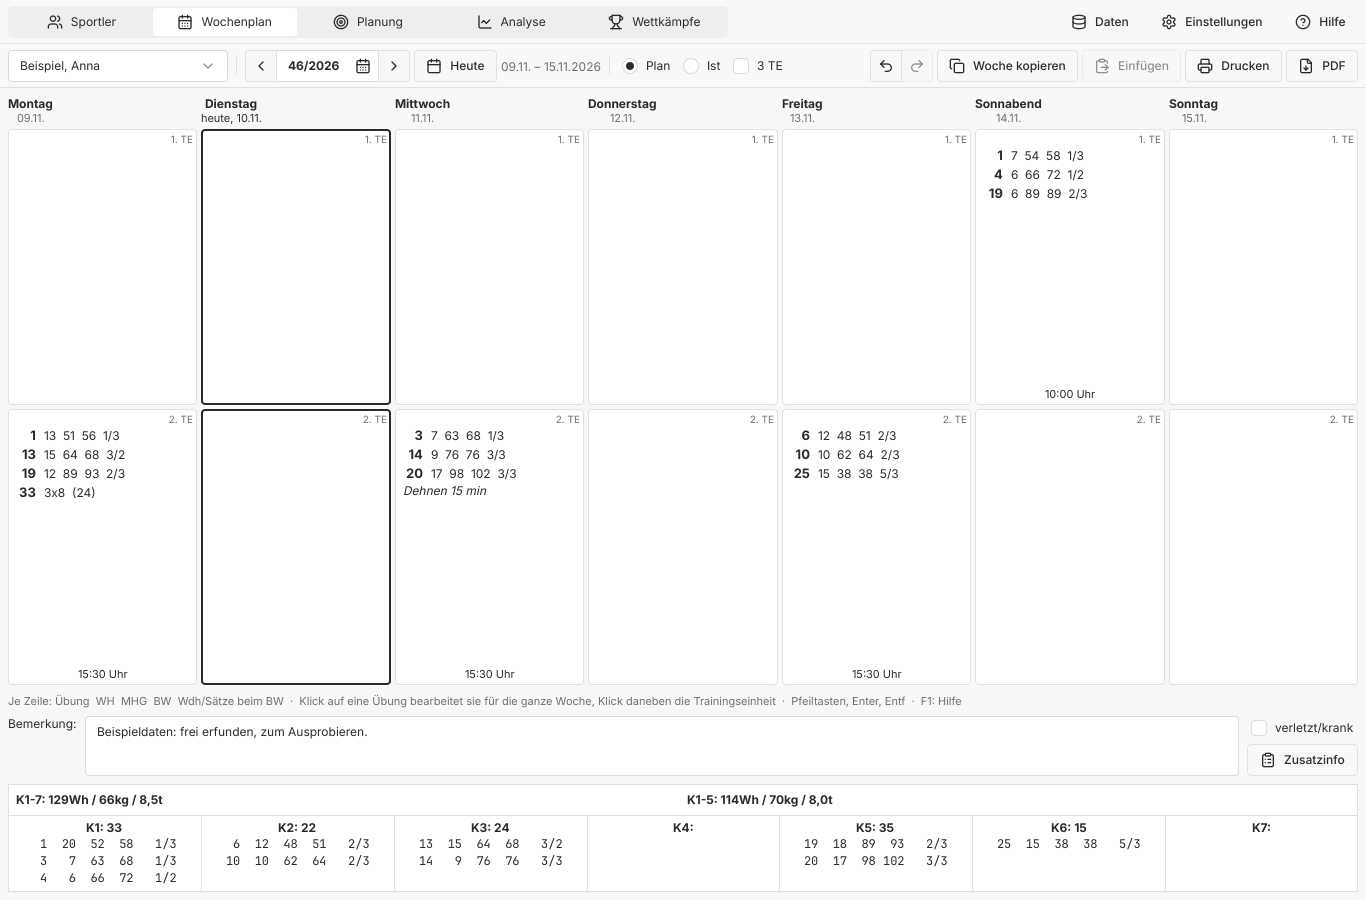
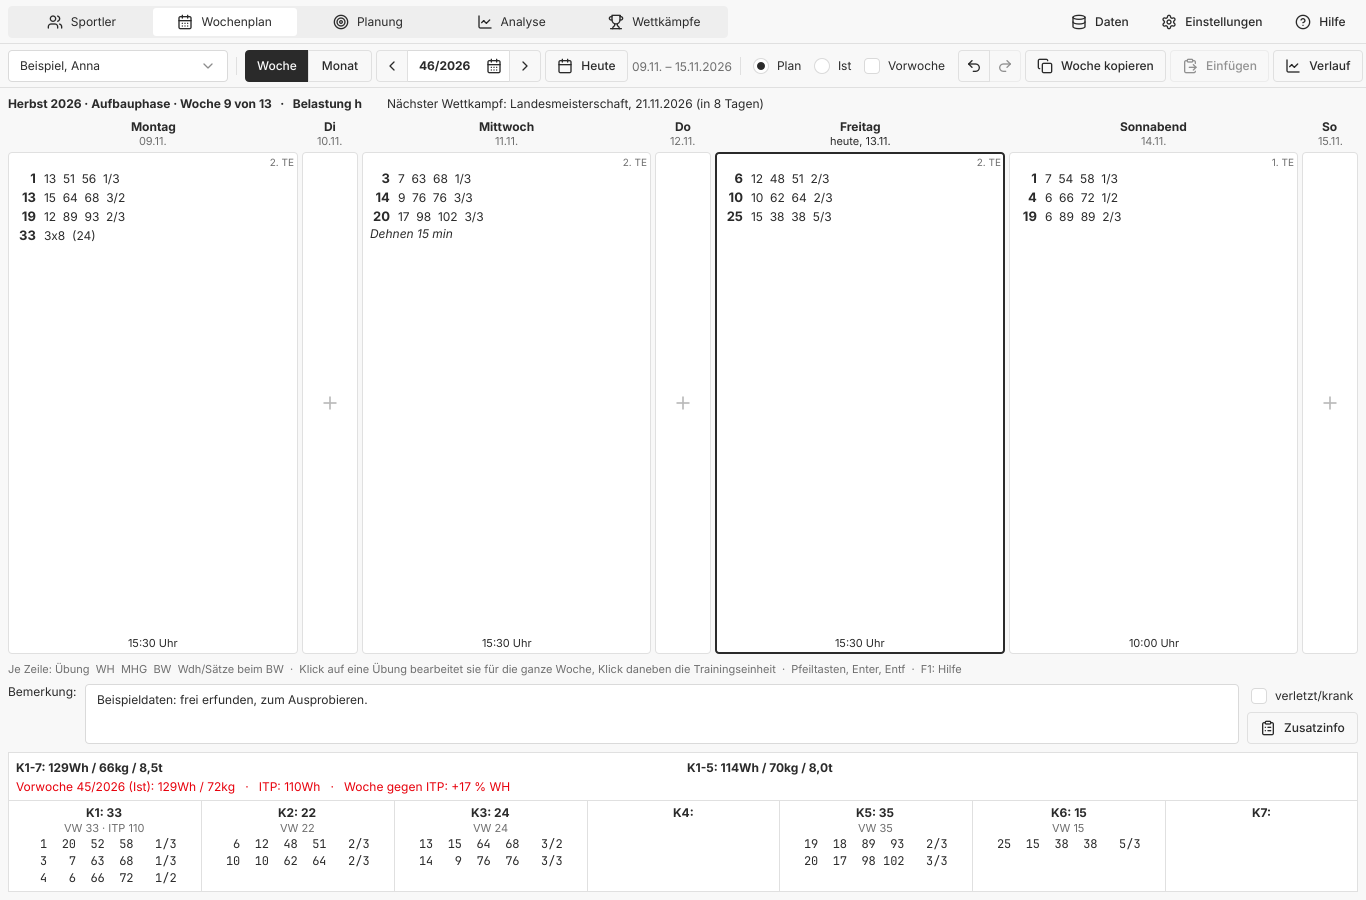
Show the new interface in README and website
New screenshots of the week, the session panel beside it, the month,
the load chart, the ITP, Analyse and Wettkämpfe, all with invented
data: the demo athletes with a MAZ whose ITP is the RTK 2019's U17
sample plan scaled down. take_screenshots.qml and schemes.py take them
again. The README's feature list and the website describe the session
panel, the month view, the load chart and the youth rules.

diff --git a/pages/index.html b/pages/index.html
@@ -51,17 +51,17 @@
       <div>
         <svg class="icon" viewBox="0 0 24 24" fill="none" stroke="currentColor" stroke-width="2" stroke-linecap="round" stroke-linejoin="round" aria-hidden="true"><path d="M8 2v4" /> <path d="M16 2v4" /> <rect width="18" height="18" x="3" y="4" rx="2" /> <path d="M3 10h18" /> <path d="M8 14h.01" /> <path d="M12 14h.01" /> <path d="M16 14h.01" /> <path d="M8 18h.01" /> <path d="M12 18h.01" /> <path d="M16 18h.01" /></svg>
         <h3>Wochenplan</h3>
-        <p>Sieben Tage mit bis zu drei Einheiten, Plan und Ist getrennt, Bemerkung und „verletzt/krank“.</p>
+        <p>So viele Einheiten am Tag, wie Sie trainieren, Plan und Ist getrennt. Darüber Phase, Belastung und nächster Wettkampf, auf Wunsch die Vorwoche.</p>
       </div>
       <div>
         <svg class="icon" viewBox="0 0 24 24" fill="none" stroke="currentColor" stroke-width="2" stroke-linecap="round" stroke-linejoin="round" aria-hidden="true"><path d="M10 8h.01" /> <path d="M12 12h.01" /> <path d="M14 8h.01" /> <path d="M16 12h.01" /> <path d="M18 8h.01" /> <path d="M6 8h.01" /> <path d="M7 16h10" /> <path d="M8 12h.01" /> <rect width="20" height="16" x="2" y="4" rx="2" /></svg>
         <h3>Schnelle Erfassung</h3>
-        <p>Übungsnummer tippen, Gewicht, Wiederholungen und Sätze eintragen, mit Tab von Feld zu Feld.</p>
+        <p>Das nächste Gewicht wird vorgeschlagen, frühere Zeilen angeboten, mit den Pfeiltasten wird gezählt – neben der Woche, nicht über ihr.</p>
       </div>
       <div>
         <svg class="icon" viewBox="0 0 24 24" fill="none" stroke="currentColor" stroke-width="2" stroke-linecap="round" stroke-linejoin="round" aria-hidden="true"><rect width="16" height="20" x="4" y="2" rx="2" /> <line x1="8" x2="16" y1="6" y2="6" /> <line x1="16" x2="16" y1="14" y2="18" /> <path d="M16 10h.01" /> <path d="M12 10h.01" /> <path d="M8 10h.01" /> <path d="M12 14h.01" /> <path d="M8 14h.01" /> <path d="M12 18h.01" /> <path d="M8 18h.01" /></svg>
         <h3>Kennziffern automatisch</h3>
-        <p>WH, MHG, BW und Tonnage je Übung, Einheit und Woche, dazu die Komplexe K1 bis K7.</p>
+        <p>WH, MHG, BW und Tonnage je Übung, Einheit und Woche, die Komplexe K1 bis K7 – neben Vorwoche und ITP.</p>
       </div>
       <div>
         <svg class="icon" viewBox="0 0 24 24" fill="none" stroke="currentColor" stroke-width="2" stroke-linecap="round" stroke-linejoin="round" aria-hidden="true"><path d="M6 18H4a2 2 0 0 1-2-2v-5a2 2 0 0 1 2-2h16a2 2 0 0 1 2 2v5a2 2 0 0 1-2 2h-2" /> <path d="M6 9V3a1 1 0 0 1 1-1h10a1 1 0 0 1 1 1v6" /> <rect x="6" y="14" width="12" height="8" rx="1" /></svg>
@@ -81,36 +81,75 @@
       <div>
         <svg class="icon" viewBox="0 0 24 24" fill="none" stroke="currentColor" stroke-width="2" stroke-linecap="round" stroke-linejoin="round" aria-hidden="true"><circle cx="12" cy="12" r="10" /> <circle cx="12" cy="12" r="6" /> <circle cx="12" cy="12" r="2" /></svg>
         <h3>Langfristige Planung</h3>
-        <p>Makrozyklen mit Phasen und Zielleistungen, Rahmenorientierung und individueller Trainingsplan.</p>
+        <p>Makrozyklen mit Phasen und Zielleistungen, Rahmenorientierung und individueller Trainingsplan mit hohen, mittleren und gesenkten Wochen.</p>
       </div>
       <div>
         <svg class="icon" viewBox="0 0 24 24" fill="none" stroke="currentColor" stroke-width="2" stroke-linecap="round" stroke-linejoin="round" aria-hidden="true"><path d="M6 9H4.5a2.5 2.5 0 0 1 0-5H6" /> <path d="M18 9h1.5a2.5 2.5 0 0 0 0-5H18" /> <path d="M4 22h16" /> <path d="M10 14.66V17c0 .55-.47.98-.97 1.21C7.85 18.75 7 20.24 7 22" /> <path d="M14 14.66V17c0 .55.47.98.97 1.21C16.15 18.75 17 20.24 17 22" /> <path d="M18 2H6v7a6 6 0 0 0 12 0V2Z" /></svg>
         <h3>Wettkämpfe</h3>
-        <p>Ergebnisse mit allen Versuchen, Zweikampf und Entwicklung über die Jahre.</p>
+        <p>Ergebnisse mit allen Versuchen, Zweikampf und Entwicklung über die Jahre. Für die Jugend die Wettkämpfe und Normen der DGJ.</p>
       </div>
       <div>
         <svg class="icon" viewBox="0 0 24 24" fill="none" stroke="currentColor" stroke-width="2" stroke-linecap="round" stroke-linejoin="round" aria-hidden="true"><path d="M3 3v16a2 2 0 0 0 2 2h16" /> <path d="m19 9-5 5-4-4-3 3" /></svg>
         <h3>Analysen</h3>
         <p>Abschnitts- und Gruppenanalyse, Trends und Grafiken – auf Papier, als PDF oder für die Tabellenkalkulation.</p>
       </div>
+      <div>
+        <svg class="icon" viewBox="0 0 24 24" fill="none" stroke="currentColor" stroke-width="2" stroke-linecap="round" stroke-linejoin="round" aria-hidden="true"><rect width="18" height="18" x="3" y="4" rx="2" /> <path d="M16 2v4" /> <path d="M3 10h18" /> <path d="M8 2v4" /> <path d="M17 14h-6" /> <path d="M13 18H7" /> <path d="M7 14h.01" /> <path d="M17 18h.01" /></svg>
+        <h3>Monatsübersicht</h3>
+        <p>Der Monat statt des Wandkalenders: Belastung und Umfang jeder Woche, Einheiten, Wettkampftermine – für einen oder alle Sportler.</p>
+      </div>
+      <div>
+        <svg class="icon" viewBox="0 0 24 24" fill="none" stroke="currentColor" stroke-width="2" stroke-linecap="round" stroke-linejoin="round" aria-hidden="true"><path d="M22 12h-2.48a2 2 0 0 0-1.93 1.46l-2.35 8.36a.25.25 0 0 1-.48 0L9.24 2.18a.25.25 0 0 0-.48 0l-2.35 8.36A2 2 0 0 1 4.49 12H2" /></svg>
+        <h3>Belastungsverlauf</h3>
+        <p>Gewicht und Umfang über den Makrozyklus gegen das ITP, mit Ideallinie – der Sägezahn aus gehobenen und gesenkten Wochen.</p>
+      </div>
+      <div>
+        <svg class="icon" viewBox="0 0 24 24" fill="none" stroke="currentColor" stroke-width="2" stroke-linecap="round" stroke-linejoin="round" aria-hidden="true"><path d="m15.477 12.89 1.515 8.526a.5.5 0 0 1-.81.47l-3.58-2.687a1 1 0 0 0-1.197 0l-3.586 2.686a.5.5 0 0 1-.81-.469l1.514-8.526" /> <circle cx="12" cy="8" r="6" /></svg>
+        <h3>Nachwuchs</h3>
+        <p>Die Wettkämpfe der DGJ zur Auswahl, ein Hinweis bei zwei Wettkämpfen in einer Woche, die Norm der DM Jugend im Blick.</p>
+      </div>
     </div>
 
     <div class="split">
       <div>
         <h3>Eine Einheit in Sekunden erfasst</h3>
-        <p>Jede Übung mit ihren Laststufen: Gewicht oben, darunter Wiederholungen und Sätze.
-          Die Kennziffern rechnen sofort mit, in Klammern für die ganze Woche.</p>
+        <p>Die Einheit öffnet neben der Woche, die im Blick bleibt. Jede Übung mit ihren Laststufen:
+          das nächste Gewicht steht schon grau da, frühere Zeilen werden angeboten, darunter Vorwoche
+          und ITP. Gespeichert wird beim Wechsel, rückgängig mit Strg+Z.</p>
       </div>
       <img src="session.png" width="1366" height="900" loading="lazy"
-           alt="Erfassung einer Trainingseinheit mit drei Übungen und ihren Laststufen">
+           alt="Wochenplan mit der Trainingseinheit im Bereich daneben: Übungen mit Laststufen, ein vorgeschlagenes Gewicht und frühere Zeilen zur Auswahl">
+    </div>
+
+    <div class="split">
+      <div>
+        <h3>Der Monat auf einen Blick</h3>
+        <p>Wochen mit ihrer Belastung und dem geplanten und erledigten Umfang, die Phasen des
+          Makrozyklus, offene Einheiten in Rot. Wettkämpfe per Doppelklick eintragen, die nächsten
+          Termine stehen daneben – auch für alle Sportler, zum Ausdrucken.</p>
+      </div>
+      <img src="month.png" width="1366" height="900" loading="lazy"
+           alt="Monatsübersicht November 2026 mit Wochen, Belastung h, m und g, Einheiten und einem Wettkampf, rechts die Termine">
+    </div>
+
+    <div class="split">
+      <div>
+        <h3>Der Belastungsverlauf</h3>
+        <p>Bestwert und mittleres Hantelgewicht einer Übung je Woche: Ziel aus dem ITP, erreicht,
+          geplant, dazu eine Ideallinie zum Ziel. Darunter der Umfang in den Farben der Belastung –
+          gesenkte Wochen sind schattiert.</p>
+      </div>
+      <img src="load.png" width="1366" height="900" loading="lazy"
+           alt="Belastungsverlauf: Bestwert und mittleres Hantelgewicht über 13 Wochen gegen das ITP, darunter Wiederholungen je Woche">
     </div>
 
     <div class="split">
       <div>
         <h3>Vom Makrozyklus bis zur Woche</h3>
-        <p>Die Rahmenorientierung legt Umfang und Intensität in Prozent fest, der individuelle
-          Trainingsplan rechnet sie mit den Zielleistungen in Kilogramm um. Im Wochenplan stehen
-          die Vorgaben dann neben den geplanten Laststufen.</p>
+        <p>Die Rahmenorientierung des Makrozyklus legt Umfang und Intensität in Prozent fest, der
+          individuelle Trainingsplan rechnet sie mit den Zielleistungen in Kilogramm um, mit hohen,
+          mittleren und gesenkten Wochen. Im Wochenplan stehen die Vorgaben dann neben den
+          geplanten Laststufen.</p>
       </div>
       <img src="planning.png" width="1366" height="900" loading="lazy"
            alt="Individueller Trainingsplan: Wochen und Übungen mit WH, MHG und BW">

diff --git a/docs/screenshots/take_screenshots.qml b/docs/screenshots/take_screenshots.qml
@@ -1,0 +1,117 @@
+// The screenshots in docs/screenshots, with invented data only: the demo
+// athletes, a MAZ "Herbst 2026" with an ITP scaled from the RTK 2019's U17
+// sample plan, earlier weeks done and two competitions to come. Run from
+// the repository with the program built:
+//   QT_QPA_PLATFORM=offscreen build/tst_qml -input docs/screenshots/take_screenshots.qml
+// then python3 docs/screenshots/schemes.py for week-schemes.png. print.png
+// is the printed week plan, saved by hand.
+import QtQuick
+import QtTest
+import Trainingsplaner
+
+Item {
+    Component { id: mainWindow; Main {} }
+    ItpModel { id: itp; weeks: 13; exercises: [1, -1] }
+    TestCase {
+        name: "Screenshots"
+        when: windowShown
+        property var w
+        property string mazId
+        function shot(name) {
+            waitForRendering(w.contentItem)
+            wait(300)
+            grabImage(w.contentItem.parent).save(Qt.resolvedUrl(name).toString().replace("file://", ""))
+        }
+        function cleanupTestCase() {
+            if (mazId) Plan.removeMaz(mazId)
+            if (Store.hasDemoData) Store.removeDemoData()
+            Store.colorScheme = "light"
+        }
+        function test_shots() {
+            const plan = [{"load": "m", "mhg": 65, "bw": 70, "wh17": 336}, {"load": "h", "mhg": 67, "bw": 72, "wh17": 417}, {"load": "h", "mhg": 71, "bw": 74, "wh17": 424}, {"load": "g", "mhg": 73, "bw": 77, "wh17": 307}, {"load": "h", "mhg": 74, "bw": 80, "wh17": 411}, {"load": "h", "mhg": 76, "bw": 83, "wh17": 366}, {"load": "g", "mhg": 71, "bw": 78, "wh17": 250}, {"load": "h", "mhg": 79, "bw": 88, "wh17": 318}, {"load": "h", "mhg": 81, "bw": 90, "wh17": 289}, {"load": "g", "mhg": 73, "bw": 85, "wh17": 230}, {"load": "h", "mhg": 81, "bw": 95, "wh17": 225}, {"load": "m", "mhg": 83, "bw": 97, "wh17": 183}, {"load": "g", "mhg": 84, "bw": 100, "wh17": 156}]
+            Store.colorScheme = "light"
+            Store.sessionsPerDay = 1
+            Store.showPreviousWeek = false
+            w = createTemporaryObject(mainWindow, null, { width: 1366, height: 900, visible: true})
+            const anna = Store.createDemoData()
+            w.athlete = anna
+            const today = Store.mondayOf(Store.today())
+            mazId = Plan.saveMaz({ name: "Herbst 2026", shortName: "H26", sex: 1, from: "38/2026", to: "50/2026",
+                                   buildUp: "42/2026", peakPhase: "47/2026" }).id
+            Plan.saveMazAthlete({ mazId: mazId, athleteId: anna, weightClass: 64, targetSnatch: 76, targetCleanJerk: 94,
+                                  compSnatch: 69, compCleanJerk: 87 })
+            itp.owner = anna
+            itp.fromMonday = Store.weekFromLabel("38/2026")
+            const first = itp.fromMonday
+            for (let r = 0; r < 13; ++r) {
+                const p = plan[r]
+                const mhg = Math.round(p.mhg * 0.76), bw = Math.round(p.bw * 0.76)
+                itp.setData(itp.index(r, 0), String(12 + (p.load === "g" ? 0 : 4)), Qt.UserRole + 1)
+                itp.setData(itp.index(r, 1), String(mhg), Qt.UserRole + 1)
+                itp.setData(itp.index(r, 2), String(bw), Qt.UserRole + 1)
+                itp.setData(itp.index(r, 3), String(Math.round(p.wh17 * 0.38)), Qt.UserRole + 1)
+                itp.setData(itp.index(r, 6), p.load, Qt.UserRole + 1)
+                const m = Store.addWeeks(first, r)
+                // Earlier weeks done, before the demo's own
+                if (m < Store.addWeeks(today, -3)) {
+                    const off = [-2, -1, -3, -1, -2][r] || -2
+                    Store.saveSession(anna, m, "I", { day: 1, number: 2, from: "15:30", entries: [
+                        { kind: 0, exercise: 1, steps: [{ kg: mhg - 6 + off, reps: 3, sets: 2 }, { kg: mhg + off, reps: 2, sets: 3 },
+                                                         { kg: bw + off, reps: 1, sets: 2 }] },
+                        { kind: 0, exercise: 19, steps: [{ kg: 75, reps: 5, sets: 2 }, { kg: 85, reps: 3, sets: 3 }] }] })
+                    Store.saveSession(anna, m, "I", { day: 3, number: 2, from: "15:30", entries: [
+                        { kind: 0, exercise: 3, steps: [{ kg: 70, reps: 2, sets: 3 }, { kg: 78, reps: 1, sets: 3 }] }] })
+                }
+            }
+            Store.saveCompetitionDate(anna, "2026-11-21", 0, "Landesmeisterschaft", "Halle", "", "")
+            Store.saveCompetitionDate(anna, "2026-12-12", 1, "Deutsche Meisterschaft", "Berlin", "", "")
+
+            keyClick(Qt.Key_2, Qt.ControlModifier)
+            const week = findChild(w, "weekPage")
+            week.monday = today
+            shot("week.png")
+            for (const s of ["dark", "classic"]) {
+                Store.colorScheme = s
+                shot("week-" + s + ".png")
+            }
+            Store.colorScheme = "light"
+
+            week.openSession(1, 2)
+            const ed = findChild(w, "sessionEditor")
+            ed.addEntry({ kind: 0, exercise: 3 }, false)
+            wait(400)
+            const kg = findChild(findChild(ed, "entry4"), "kg0")
+            kg.forceActiveFocus()
+            keyClick("7"); keyClick("0")
+            wait(500)
+            shot("session.png")
+            ed.dirty = false
+            ed.close()
+
+            week.showMonth(true)
+            shot("month.png")
+            week.showMonth(false)
+
+            findChild(w, "loadChartButton").clicked()
+            wait(500)
+            shot("load.png")
+            findChild(w, "loadChartDialog").close()
+            wait(300)
+
+            keyClick(Qt.Key_3, Qt.ControlModifier)
+            const planning = findChild(w, "planningPage")
+            planning.showTab("itp")
+            wait(300)
+            shot("planning.png")
+
+            keyClick(Qt.Key_4, Qt.ControlModifier)
+            const analysis = findChild(w, "analysisTabs")
+            analysis.currentIndex = 3
+            wait(500)
+            shot("analysis.png")
+
+            keyClick(Qt.Key_5, Qt.ControlModifier)
+            shot("competitions.png")
+        }
+    }
+}

diff --git a/docs/screenshots/schemes.py b/docs/screenshots/schemes.py
@@ -1,0 +1,25 @@
+"""week-schemes.png: the week in the light, dark and classic schemes,
+cut diagonally into three strips, from take_screenshots.qml's shots."""
+from pathlib import Path
+
+from PIL import Image, ImageDraw
+
+here = Path(__file__).parent
+light = Image.open(here / "week.png").convert("RGB")
+dark = Image.open(here / "week-dark.png").convert("RGB")
+classic = Image.open(here / "week-classic.png").convert("RGB")
+W, H = light.size
+
+
+def band(x0top, x0bot, x1top, x1bot):
+    mask = Image.new("L", (W, H), 0)
+    ImageDraw.Draw(mask).polygon([(x0top, 0), (x1top, 0), (x1bot, H), (x0bot, H)], fill=255)
+    return mask
+
+
+out = light.copy()
+out.paste(dark, (0, 0), band(524, 386, 978, 840))
+out.paste(classic, (0, 0), band(978, 840, W + 400, W + 400))
+out.save(here / "week-schemes.png")
+for name in ("week-dark.png", "week-classic.png"):
+    (here / name).unlink()

diff --git a/README.md b/README.md
@@ -46,28 +46,50 @@ updates and uninstalling.
 
 ## Features
 
-- **Wochenplan**: 7 days × 2 (optionally 3) sessions per athlete, plan or
-  actual ("Ist"), week note and injured flag, K1–K7 weekly summary,
-  copy/paste a whole week (also to another athlete), calendar to pick a
-  week, extra info per day (body weight, body fat, supplements), the
-  week's entries edited in place and saved together.
-- **Session editor**: weight exercises (kg, reps per set "SG", sets "ANZ",
-  failed attempts "UG" in actual weeks), general exercises as text with total
-  reps, free text lines, times and a note. Live MHG/BW/WH/SG-ANZ for the
-  session and the whole week. History and chart of an exercise.
-- **Erfassung TÜ**: click an exercise line in the week to edit that
-  exercise across the whole week: one row per session with its weight
-  steps, move it to another day or session, add or remove it, copy weight
-  steps between rows, with the week's totals and the ITP targets.
+- **Wochenplan**: per athlete the week as days with their sessions, plan
+  or actual ("Ist"). As many sessions a day as the coach uses (1–3, a
+  setting; with one, each day lists its own sessions from the top), days
+  without sessions narrow. Above the days the week's MAZ, phase, load
+  (h / m / g) and the next competition; "Vorwoche" shows the week before
+  above it. The K1–K7 summary with last week, the ITP's target and the
+  difference. Week note, injured flag, extra info per day (body weight,
+  body fat, supplements), copy/paste a whole week (also to another
+  athlete).
+- **Monat**: the month instead of the week, in place of a paper calendar:
+  weeks with their load and reps planned / done, the MAZ's phases, the
+  days' sessions (done, done without a plan, planned, open), and
+  competitions entered as dates by a double click. The coming
+  competitions at the side, "Alle Sportler" for everyone's, printable.
+- **Session panel**: a session opens beside the week, not over it (or in a
+  window of its own): weight exercises (kg, reps per set "SG", sets "ANZ",
+  failed attempts "UG" in actual weeks), general exercises as text with
+  total reps (4x12 gives 48), free text lines, times and a note. Each line
+  shows the session's and the week's WH, MHG and BW beside last week and
+  the ITP. The next weight is proposed by the athlete's usual jump, ↑/↓
+  count, earlier lines and texts are offered while typing, "Wie Vorwoche"
+  takes last week's session. Saved when another session is chosen; undo
+  with Ctrl+Z. What the panel changes is marked in the week.
+- **Erfassung TÜ**: click an exercise line to edit that exercise across
+  the whole week in the same panel: one row per session, moved to another
+  day or session, added or removed; its lines are marked in the week.
+- **Belastungsverlauf**: one exercise's weight per week of the MAZ (BW
+  and MHG) as the ITP's target, done and planned, with an ideal line, and
+  below it the reps of K1-7 in the colours of the weeks' load: the
+  sawtooth of raised and lowered weeks. In kg or % of the MAZ target,
+  with the table to copy and print.
 - **Sportler**: athletes with age, and Kader, Verein, BSP, Bundeswehr and
   trainers with their history over time; a filter by Kader and sex.
 - **Wettkämpfe**: results with six attempts (valid/invalid), total, and a
   chart over the years with best results per half year or year, trends
-  and the reference total of the athlete's class.
-- **Planung**: macrocycles (MAZ) with phases and athletes' targets, the
-  framework plan (RO) in percent, the individual training plan (ITP) per
-  week and exercise or group, planned weight steps, templates (RO to ITP
-  with the athlete's targets), and a chart of ITP against plan or actual.
+  and the reference total of the athlete's class. For youth athletes the
+  rules of the DGJ: its competitions to pick, a warning for a second
+  competition in a week up to AK 17, and the DM Jugend norm of the weight
+  class against the year's best total (norms editable in the settings).
+- **Planung**: macrocycles (MAZ) with phases and athletes' targets; the
+  framework plan (RO) in percent, opened from its MAZ; the athlete's
+  individual training plan (ITP) per week and exercise or group with the
+  week's load as h / m / g; planned weight steps; templates (RO to ITP
+  with the athlete's targets).
 - **Analyse**: section analysis (WH, MHG, BW, set size with totals and
   trends, in kg or percent of the targets, comparisons, all MAZ, reps per
   weight), group analysis of a MAZ, data check, and charts. Reports show
@@ -78,20 +100,28 @@ updates and uninstalling.
   changes since a date including deletions, or one athlete's weeks).
 - **Print / PDF** of the week plan with the old print options (notation,
   figures, notes, empty lines, fonts, paper A4, A5 or A3, portrait or
-  landscape, margins, logo), and of all analyses and charts, their tables
-  drawn like the old program's reports; charts also as PNG images, with
-  the values shown on hover.
+  landscape, margins, logo), of the month, and of all analyses and charts,
+  their tables drawn like the old program's reports; charts also as PNG
+  images, with the values shown on hover.
 - **Everyday use**: keyboard shortcuts (arrow keys, Enter and Delete in
-  the week grid, Ctrl+←/→ for weeks, Ctrl+C/V for sessions), undo and
-  redo of every change to sessions, a right-click menu with "Ist = Plan",
-  one athlete selection for all pages, light and dark mode (following the
-  system or chosen in the settings), a style of its own (`style/`),
-  help with a glossary (F1), an About
-  dialog with the version, the update check and a link for reporting
-  problems, and example data to try the program on the first start.
+  the week grid, Ctrl+←/→ for weeks or months, Ctrl+C/V for sessions,
+  Ctrl+S), undo and redo of every change to sessions, a right-click menu
+  with "Ist = Plan" and "Weitere Einheit", "von" kept before "bis" in
+  every range, one athlete selection for all pages, light and dark mode
+  (following the system or chosen in the settings), a style of its own
+  (`style/`), help with a glossary (F1), an About dialog with the
+  version, the update check and a link for reporting problems, and
+  example data to try the program on the first start.
+
+![Session panel beside the week](docs/screenshots/session.png)
+
+![Month](docs/screenshots/month.png)
+
+![Belastungsverlauf](docs/screenshots/load.png)
 
 ![Planning](docs/screenshots/planning.png)
 
+How the interface came about and where it goes: [docs/UX-PLAN.md](docs/UX-PLAN.md).
 What comes next: [docs/ROADMAP.md](docs/ROADMAP.md).
 
 ## Data from WinWoTA XP
@@ -146,7 +176,7 @@ To release: bump `project(... VERSION ...)` in `CMakeLists.txt`, wait for
 | `--import <file.bak>` | import an old data export and exit |
 | `--athlete <id> --week 46/2026` | start with this athlete and week |
 | `--page sportler\|planung\|analyse\|wettkaempfe\|einstellungen` | start on that page |
-| `--open 1:2`, `ex:8`, `hist:8`, `chart:8` | open a session (day:number), an exercise's week, history or chart |
+| `--open 1:2`, `ex:8`, `hist:8`, `chart:8` | open a session (day:number) or an exercise's week in the panel, or an exercise's history or chart |
 | `--page planung --open maz\|itp\|ro\|laststufen`, `--page analyse --open individual\|group\|check\|chart` | open a tab |
 | `--farbschema hell\|dunkel\|klassisch` | light, dark or the old program's colours for this start, regardless of the setting (Einstellungen › Allgemein › Farbschema) |
 | `--grab <file.png>` | save a screenshot and exit (for testing) |
@@ -169,6 +199,7 @@ To release: bump `project(... VERSION ...)` in `CMakeLists.txt`, wait for
 | `src/analysis.*` | section analysis and load tables |
 | `src/weekreport.*` | printed / PDF week plan |
 | `src/report.*` | analysis reports: headings, notes and tables, printed and as PDF, as text and CSV |
+| `src/youth.*` | the DGJ's youth rules: age class, weight classes, DM norms, competitions |
 | `src/store.*`, `src/planstore.*`, `src/analysisapi.*`, `src/itpmodel.*`, `src/reportmodel.*` | APIs and models for the QML user interface |
 | `qml/` | user interface |
 | `style/` | the controls' style: `Primitives` (every colour and size once), `TokenInterface` (their roles per colour scheme), `Style` and `StyleCascade` (rules by state and part), and a `*Style` singleton per kind of control with its variants, e.g. `ButtonStyle.ghost` |
@@ -177,8 +208,8 @@ To release: bump `project(... VERSION ...)` in `CMakeLists.txt`, wait for
 | `fonts/`, `icons/` | Inter, JetBrains Mono and Lucide icons, built into the program |
 | `packaging/` | Debian package script |
 | `pages/` | website |
-| `docs/ROADMAP.md`, `docs/NAVIGATION.md` | what comes next, and the planned sidebar navigation |
-| `docs/screenshots/` | screenshots with invented demo data |
+| `docs/ROADMAP.md`, `docs/UX-PLAN.md`, `docs/NAVIGATION.md` | what comes next, the UI/UX plan with its background and mock-ups (`docs/ux/`), and the sidebar set aside |
+| `docs/screenshots/` | screenshots with invented demo data (the U17 sample plan of the RTK 2019 scaled for the ITP), retaken with `take_screenshots.qml` and `schemes.py` there |
 | `.github/workflows/` | CI, nightly, release and website |
 
 ### Old storage format
